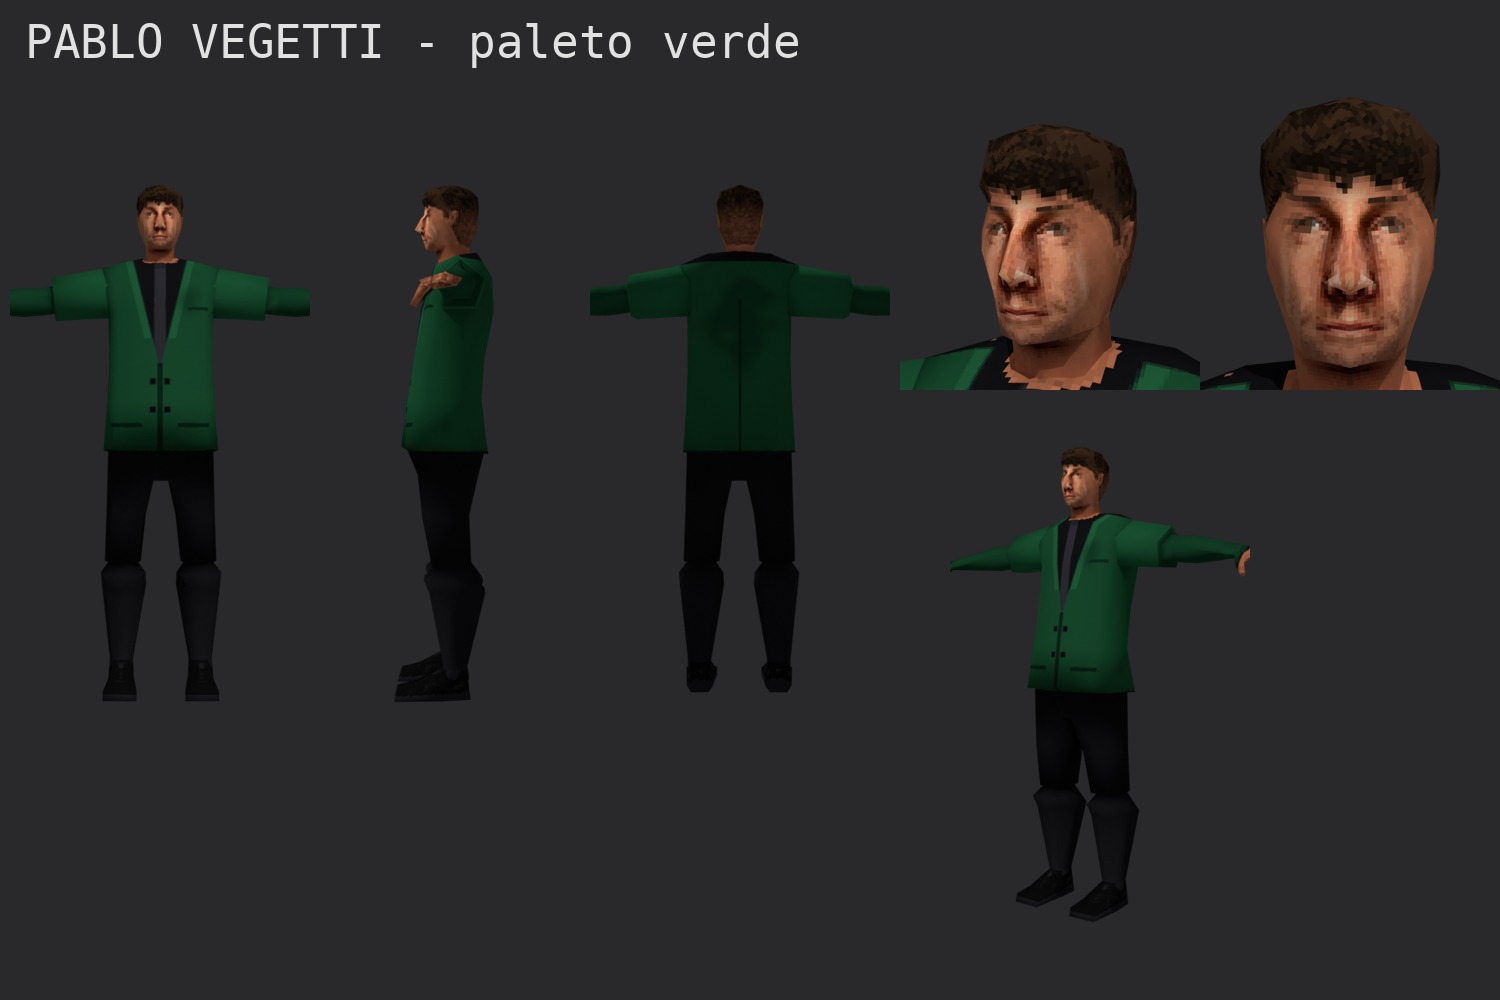
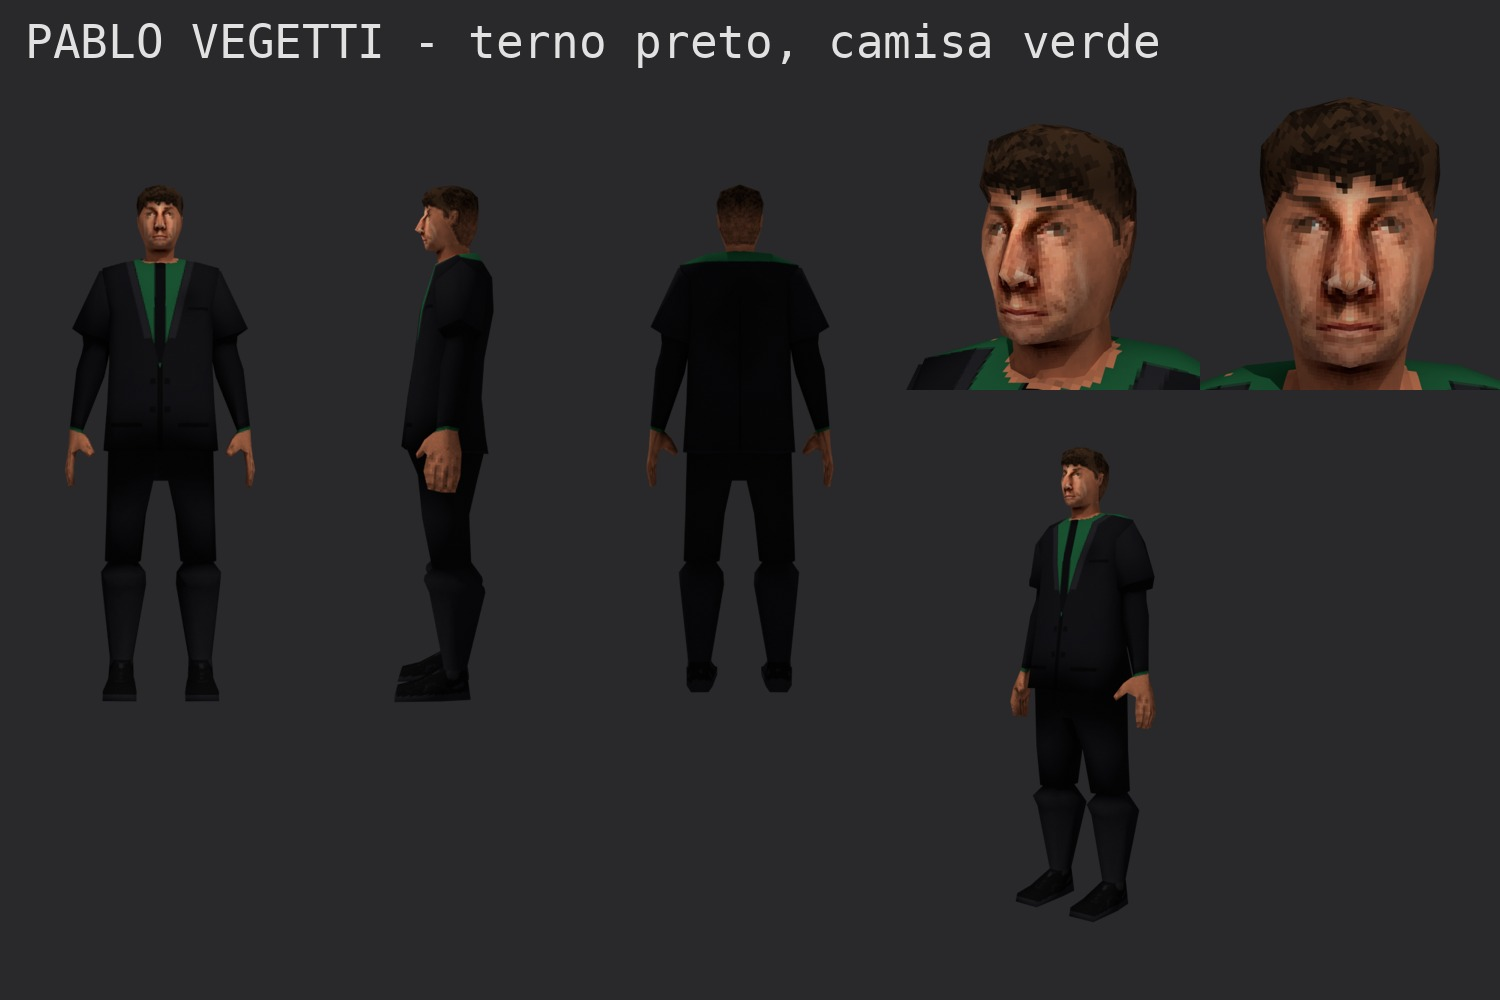
Vegetti (JashiPSX): terno preto com camisa verde, mãos visíveis (pulso no lugar certo), folha com braços abaixados
Claude-Session: https://claude.ai/code/session_01PVUNKmUDvaP2jpRAvnz1fM

diff --git a/tools/pintar_jashi_vasco.py b/tools/pintar_jashi_vasco.py
@@ -36,7 +36,7 @@ PELE = [sum(c[i] for c in am) / len(am) for i in range(3)]
 FONTE = '/usr/share/fonts/truetype/dejavu/DejaVuSans-Bold.ttf'; FONTE_C = '/usr/share/fonts/truetype/liberation/LiberationSans-Bold.ttf'
 PRETO, BRANCO, VERM, CAB = (22, 22, 25), (226, 226, 222), (196, 30, 36), (48, 33, 22)
 EM = 1000
-PULSO = 0.84
+PULSO = 0.80
 def tela(): return Image.new('RGBA', (900, 1900), (0, 0, 0, 0))     # x -0,45..0,45 ; z 1,9..0
 def pm(xm, zm): return (int((xm + 0.45) * EM), int((1.9 - zm) * EM))
 def escrever(im, txt, xm, zm, alt, larg=None, fonte=FONTE):
@@ -87,11 +87,12 @@ def dobra(o, k, forca=1.0):
     lo = 0.80 if (ROUPA == 'terno' and k in ('paleto', 'manga')) else 0.55   # tira a estampa da camiseta original
     return max(lo, min(1.35, f))
 tex = Image.new('RGB', (N, N), (0, 0, 0)); T = tex.load(); feito = set()
-VERDE, VERDE_L, CAM, GRAV = (26, 78, 48), (34, 96, 60), (20, 20, 23), (48, 48, 54)
+TROCA = os.environ.get('INVERTE', '1') == '1'    # paletó preto + camisa verde
+VERDE, VERDE_L, CAM, GRAV = ((22, 22, 25), (36, 36, 40), (30, 92, 56), (16, 16, 18)) if TROCA else ((26, 78, 48), (34, 96, 60), (20, 20, 23), (48, 48, 54))
 def cor_terno(k, p, n, o):
     X, Y, Z = p; ax = abs(X); frente = n[1] < -0.2
     if k == 'manga':
-        if ax > PULSO - 0.035: return [q * dobra(o, k) for q in (CAM if ax > PULSO - 0.012 else (20, 62, 38))]   # punho
+        if ax > PULSO - 0.035: return [q * dobra(o, k) for q in (CAM if ax > PULSO - 0.012 else [q * 0.8 for q in VERDE])]   # punho
         return [q * dobra(o, k) for q in VERDE]
     if k == 'calca':
         return [q * dobra(o, k, 0.25) for q in (22, 22, 25)]
